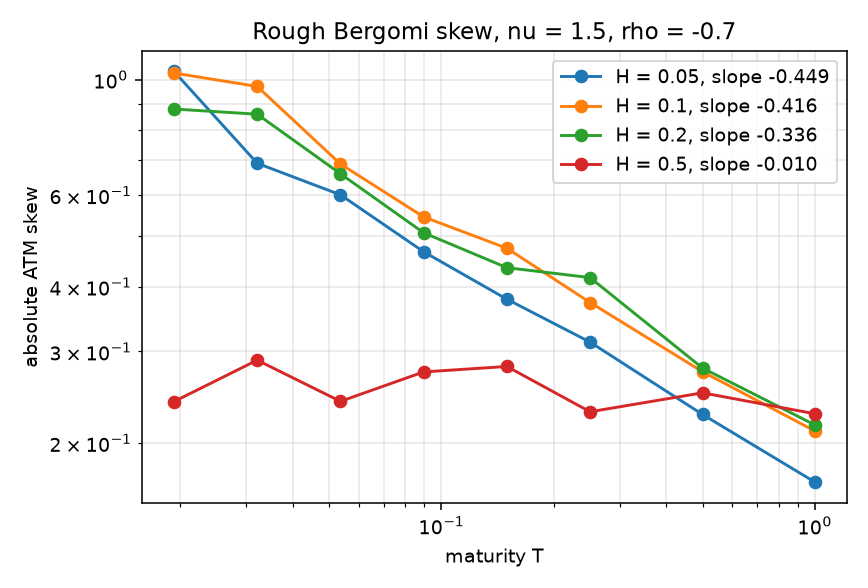
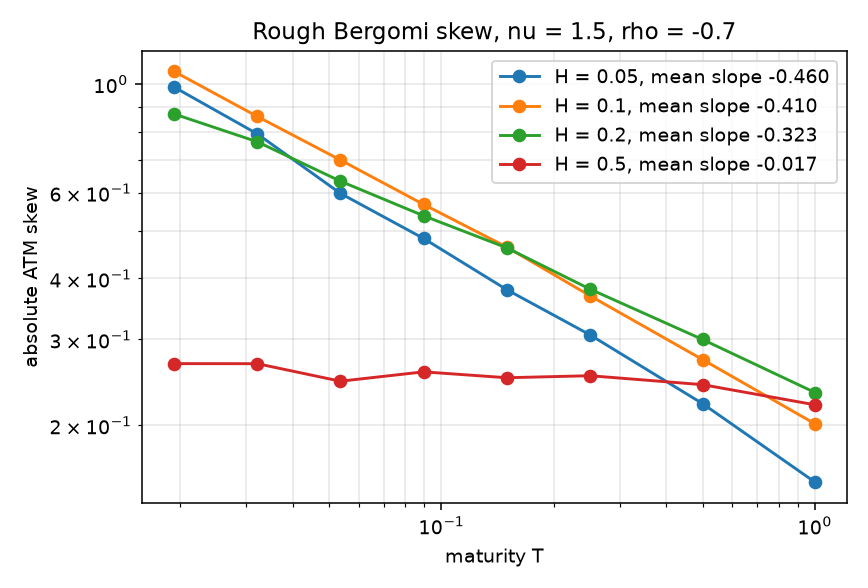
RV-b: skew exponent is the mean of 12 seeds
One seed has sd 0.018, so a band of 0.05 is not a check on a single draw.
The mean slope at H=0.1 is -0.409580. The H=0.2 gap is 0.023, not 0.036.
The volsurface create test skips when volsurface.plugins is not installed.

diff --git a/scripts/figures_rvb.py b/scripts/figures_rvb.py
@@ -7,8 +7,10 @@ Each point is a conditional Monte Carlo price, 8,000 paths, 128 steps,
 nine log-moneynesses on [-h, h] with h = max(0.15 sqrt(T), 0.01), and the
 slope of a quadratic in log-moneyness at the money.
 
-The H = 0.1 points on [1/52, 1/4] use the same seeds as
-``tests/test_rbergomi.py::test_skew_exponent`` (seed 20261014 + 5000 + index).
+Twelve seeds. The plotted skew is the mean of the absolute skew. The legend
+is the mean of the per-seed log-log slopes on [1/52, 1/4]. At H = 0.1 that
+mean is what ``tests/test_rbergomi.py::test_skew_exponent`` checks.
+Replication 0 on that window uses seed 20261014 + 5000 + 100 * rep + index.
 """
 
 from __future__ import annotations
@@ -32,15 +34,16 @@ RHO = -0.7
 XI0 = 0.04
 N_PATHS = 8_000
 N_STEPS = 128
+REPS = 12
 SHORT = np.geomspace(1.0 / 52.0, 0.25, 6)
 MATURITIES = np.concatenate([SHORT, np.array([0.5, 1.0])])
 OUT_DIR = Path(__file__).resolve().parents[1] / "docs" / "figures"
 
 
-def _seed(H: float, index: int) -> int:
+def _seed(H: float, rep: int, index: int) -> int:
     if abs(H - 0.1) < 1e-12 and index < SHORT.size:
-        return SEED + 5_000 + index
-    return SEED + 20_000 + int(round(1000 * H)) + index
+        return SEED + 5_000 + 100 * rep + index
+    return SEED + 20_000 + int(round(1000 * H)) + 100 * rep + index
 
 
 def main() -> None:
@@ -49,23 +52,59 @@ def main() -> None:
         model = RoughBergomi(
             H=H, nu=NU, rho=RHO, xi0=XI0, n_steps=N_STEPS, n_paths=N_PATHS, kappa=1
         )
+        slopes = []
+        by_maturity: list[list[float]] = [[] for _ in MATURITIES]
+        for rep in range(REPS):
+            skew = np.array(
+                [
+                    model.atm_skew(float(maturity), n_paths=N_PATHS, seed=_seed(H, rep, index))
+                    for index, maturity in enumerate(MATURITIES)
+                ]
+            )
+            for index, value in enumerate(skew):
+                by_maturity[index].append(float(value))
+            short = skew[: SHORT.size]
+            slopes.append(float(np.polyfit(np.log(SHORT), np.log(np.abs(short)), 1)[0]))
+        slopes_arr = np.asarray(slopes, dtype=np.float64)
+        mean_slope = float(slopes_arr.mean())
+        sd_slope = float(slopes_arr.std(ddof=1))
+        print(
+            f"H={H} mean slope on [1/52, 1/4] = {mean_slope:.6f} "
+            f"sd={sd_slope:.6f} target {H - 0.5:.6f}"
+        )
         for index, maturity in enumerate(MATURITIES):
-            skew = model.atm_skew(float(maturity), n_paths=N_PATHS, seed=_seed(H, index))
+            sample = np.asarray(by_maturity[index], dtype=np.float64)
+            mean_skew = float(sample.mean())
             rows.append(
                 {
                     "H": H,
                     "T": float(maturity),
-                    "skew": skew,
-                    "abs_skew": abs(skew),
+                    "skew": mean_skew,
+                    "abs_skew": float(np.mean(np.abs(sample))),
+                    "skew_sd": float(sample.std(ddof=1)),
                     "n_paths": N_PATHS,
                     "n_steps": N_STEPS,
+                    "n_seeds": REPS,
+                    "mean_slope": mean_slope,
+                    "slope_sd": sd_slope,
                 }
             )
-            print(f"H={H} T={maturity:.6f} skew={skew:.6f}")
+            print(f"H={H} T={maturity:.6f} mean skew={mean_skew:.6f}")
 
     OUT_DIR.mkdir(parents=True, exist_ok=True)
     csv_path = OUT_DIR / "rvb_skew.csv"
-    fields = ["H", "T", "skew", "abs_skew", "n_paths", "n_steps"]
+    fields = [
+        "H",
+        "T",
+        "skew",
+        "abs_skew",
+        "skew_sd",
+        "n_paths",
+        "n_steps",
+        "n_seeds",
+        "mean_slope",
+        "slope_sd",
+    ]
     with csv_path.open("w", newline="") as handle:
         writer = csv.DictWriter(handle, fieldnames=fields)
         writer.writeheader()
@@ -74,17 +113,13 @@ def main() -> None:
     fig, ax = plt.subplots(figsize=(6.2, 4.2))
     for H in H_VALUES:
         subset = [row for row in rows if row["H"] == H]
-        short = [row for row in subset if row["T"] <= 0.25 + 1e-12]
-        log_t = np.log([row["T"] for row in short])
-        log_s = np.log([row["abs_skew"] for row in short])
-        slope = float(np.polyfit(log_t, log_s, 1)[0])
+        slope = float(subset[0]["mean_slope"])
         ax.loglog(
             [row["T"] for row in subset],
             [row["abs_skew"] for row in subset],
             marker="o",
-            label=f"H = {H}, slope {slope:.3f}",
+            label=f"H = {H}, mean slope {slope:.3f}",
         )
-        print(f"H={H} slope on [1/52, 1/4] = {slope:.6f}, target {H - 0.5:.6f}")
     ax.set_xlabel("maturity T")
     ax.set_ylabel("absolute ATM skew")
     ax.set_title("Rough Bergomi skew, nu = 1.5, rho = -0.7")

diff --git a/tests/test_rbergomi.py b/tests/test_rbergomi.py
@@ -8,7 +8,8 @@ seed, so the grid keeps the max bound, and the mean of z is judged on R
 replications. Sample sizes are on the constants below.
 
 The skew bar was written before the first run of ``test_skew_exponent``.
-The tolerance stays 0.05. A miss redirects the maturity window.
+The tolerance stays 0.05 and applies to the mean of 12 seeds. One seed is
+noisier than that band.
 """
 
 from __future__ import annotations
@@ -51,6 +52,7 @@ SKEW_TOL = 0.05
 SKEW_PATHS = 8_000
 SKEW_STEPS = 128
 SKEW_MATURITIES = 6
+SKEW_REPS = 12
 
 
 def _shared(rows):
@@ -272,12 +274,35 @@ def test_conditional_monte_carlo_matches_plain_where_variance_is_finite():
     _shared(rows)
 
 
+def _skew_seed(rep: int, index: int) -> int:
+    """Seed for replication ``rep`` and maturity ``index`` on the skew grid.
+
+    Replication 0 is the original single draw: seed 20261014 + 5000 + index.
+    """
+    return SEED + 5_000 + 100 * rep + index
+
+
+def _skew_slopes(model: RoughBergomi, maturities: np.ndarray) -> np.ndarray:
+    slopes = []
+    for rep in range(SKEW_REPS):
+        skew = np.array(
+            [
+                _atm_skew(model, float(maturity), SKEW_PATHS, _skew_seed(rep, i))
+                for i, maturity in enumerate(maturities)
+            ]
+        )
+        slopes.append(float(np.polyfit(np.log(maturities), np.log(np.abs(skew)), 1)[0]))
+    return np.asarray(slopes, dtype=np.float64)
+
+
 def test_skew_exponent():
     """|psi| ~ T^{H - 1/2} on T in [1/52, 1/4] at H = 0.1.
 
     m = 8,000 paths, 128 steps, nu = 1.5, rho = -0.7, xi0 = 0.04.
-    Six maturities on a geometric grid. The slope of log|psi| on log T
-    must sit within 0.05 of H - 1/2.
+    Six maturities on a geometric grid, repeated on 12 seeds. One seed has
+    standard deviation 0.0181 in this sample, so a band of 0.05 is under
+    three standard deviations and is not a check on a single draw. The
+    prewritten bar of 0.05 applies to the mean.
     """
     model = RoughBergomi(
         H=SKEW_H,
@@ -289,17 +314,16 @@ def test_skew_exponent():
         kappa=1,
     )
     maturities = np.geomspace(SKEW_T_MIN, SKEW_T_MAX, SKEW_MATURITIES)
-    skew = np.array(
-        [
-            _atm_skew(model, float(maturity), SKEW_PATHS, SEED + 5_000 + i)
-            for i, maturity in enumerate(maturities)
-        ]
-    )
-    beta = float(np.polyfit(np.log(maturities), np.log(np.abs(skew)), 1)[0])
+    slopes = _skew_slopes(model, maturities)
+    mean = float(slopes.mean())
+    sd = float(slopes.std(ddof=1))
     target = SKEW_H - 0.5
-    assert abs(beta - target) < SKEW_TOL, (
-        f"skew exponent {beta:.4f} on T in [{SKEW_T_MIN:.6f}, {SKEW_T_MAX}], "
-        f"target {target:.4f}, tolerance {SKEW_TOL}, skews {skew}"
+    assert slopes.size == SKEW_REPS
+    assert sd > 0.0
+    assert abs(mean - target) < SKEW_TOL, (
+        f"mean skew exponent {mean:.4f} (sd {sd:.4f}, {SKEW_REPS} seeds) "
+        f"on T in [{SKEW_T_MIN:.6f}, {SKEW_T_MAX}], "
+        f"target {target:.4f}, tolerance {SKEW_TOL}, slopes {slopes}"
     )
 
 
@@ -356,9 +380,9 @@ def test_entry_point_loads_rough_bergomi():
 
 
 def test_volsurface_create_resolves_rbergomi():
-    pytest.importorskip("volsurface")
-    from volsurface.plugins import create
+    """Skipped when volsurface, or its plugins module, is not installed."""
+    plugins = pytest.importorskip("volsurface.plugins")
 
-    model = create("rbergomi")
+    model = plugins.create("rbergomi")
     assert isinstance(model, RoughBergomi)
     assert model.price(1.0, np.array([1.0]), 0.25).shape == (1,)

diff --git a/docs/notes/rbergomi.md b/docs/notes/rbergomi.md
@@ -1,6 +1,6 @@
 # Rough Bergomi
 
-The figure `docs/figures/rvb_skew.png` is the absolute at-the-money skew of rough Bergomi against maturity, for H in {0.05, 0.1, 0.2, 0.5}. Vol of vol is nu = 1.5, correlation rho = -0.7, and the forward variance is flat at 0.04. On T in [1/52, 1/4] the log-log slopes are -0.449, -0.416, -0.336 and -0.010. The short-dated claim is a slope of H - 1/2, which is -0.450, -0.400, -0.300 and 0.
+The figure `docs/figures/rvb_skew.png` is the absolute at-the-money skew of rough Bergomi against maturity, for H in {0.05, 0.1, 0.2, 0.5}. Vol of vol is nu = 1.5, correlation rho = -0.7, and the forward variance is flat at 0.04. Each point is the mean of 12 seeds. On T in [1/52, 1/4] the mean log-log slopes are -0.460, -0.410, -0.323 and -0.017. The short-dated claim is a slope of H - 1/2, which is -0.450, -0.400, -0.300 and 0.
 
 ## The model
 
@@ -36,6 +36,6 @@ The one-step check is not Monte Carlo. With v frozen, the multiplier exp(sqrt(v)
 
 ## The skew
 
-psi is the slope of implied volatility against log-moneyness at the money. The fit uses nine strikes on [-h, h], h = max(0.15 sqrt(T), 0.01), and a quadratic. The test, written before the run, asks that the slope of log|psi| on log T, for six geometric maturities in [1/52, 1/4] at H = 0.1, lie within 0.05 of -0.4. It came out at -0.416271, with 8,000 paths and 128 steps. The same points are the H = 0.1 markers on the figure.
+psi is the slope of implied volatility against log-moneyness at the money. The fit uses nine strikes on [-h, h], h = max(0.15 sqrt(T), 0.01), and a quadratic. The test, written before the run, asks that the slope of log|psi| on log T, for six geometric maturities in [1/52, 1/4] at H = 0.1, lie within 0.05 of -0.4. One seed is too noisy for that band: across 12 seeds the standard deviation is 0.0181, and the mean slope is -0.4096, with 8,000 paths and 128 steps. The bar of 0.05 applies to that mean. The same 12 seeds are the H = 0.1 markers on the figure. Replication 0 alone, the original draw, has slope -0.4163.
 
-H = 0.2 on that same window fits -0.336426, which is 0.036 steeper than -0.300. The power is asymptotic. A tighter check would end the window before 1/4. H = 0.5 is nearly flat in T, slope -0.010, which is the diffusive end of the same plot.
+H = 0.2 on that same window has mean slope -0.3232, which is 0.023 steeper than -0.300. The standard error of the mean is 0.005. A single seed fitted -0.3364, a gap of 0.036, which is one draw and not the gap. The power is asymptotic. A tighter check would end the window before 1/4. H = 0.5 has mean slope -0.017, which is the diffusive end of the same plot. The standard deviation there is 0.065, because the skew is small and the log-log slope is noisy.

diff --git a/LOG.md b/LOG.md
@@ -35,29 +35,34 @@ its standard error is 0.
 The skew bar was written before the run: on T in [1/52, 1/4] at H = 0.1, the slope
 of log|psi| on log T is within 0.05 of H - 1/2 = -0.4. nu = 1.5, rho = -0.7,
 xi0 = 0.04, m = 8,000, 128 steps, six geometric maturities, nine strikes on
-[-h, h] with h = max(0.15 sqrt(T), 0.01). The fitted slope is -0.416271. The
-absolute ATM skews are 1.03084, 0.97124, 0.68871, 0.54469, 0.47401, 0.37266 at
-T = 0.019231, 0.032121, 0.053651, 0.089611, 0.149676, 0.250000.
+[-h, h] with h = max(0.15 sqrt(T), 0.01). One seed is too noisy for that band.
+Across 12 seeds (replication r uses seed 20261014 + 5000 + 100 r + maturity index)
+the mean slope is -0.409580 and the standard deviation is 0.018112. The standard
+error of the mean is 0.005228. The mean sits 0.0096 from -0.4, inside the bar.
+Replication 0 is the original single draw, slope -0.416271.
 
-The figure (`docs/figures/rvb_skew.png`) uses the same estimator. Slopes on
-[1/52, 1/4]:
+The figure (`docs/figures/rvb_skew.png`) plots the mean absolute skew over those
+12 seeds. Mean slopes on [1/52, 1/4]:
 
-| H | slope | H - 1/2 |
-|---|---|---|
-| 0.05 | -0.449004 | -0.450 |
-| 0.1 | -0.416271 | -0.400 |
-| 0.2 | -0.336426 | -0.300 |
-| 0.5 | -0.010032 | 0 |
+| H | mean slope | sd | H - 1/2 |
+|---|---|---|---|
+| 0.05 | -0.460398 | 0.015694 | -0.450 |
+| 0.1 | -0.409580 | 0.018112 | -0.400 |
+| 0.2 | -0.323174 | 0.018477 | -0.300 |
+| 0.5 | -0.017350 | 0.065129 | 0 |
 
 At H = 1/2 the hybrid conditional price and a full-truncation Euler (v <- v + nu max(v, 0) dW),
 same normals, m = 2,000, 256 steps, T = 1, strikes 0.9, 1, 1.1, R = 4: max |z| = 3.229
 against a cap of 3.588, replication mean 1.063 against a bound of 2.549. Mean price
 gaps on one replication are about 1e-4.
 
-**Surprised.** On the same window, H = 0.2 fits -0.336 against a target of -0.300, a
-gap of 0.036, steeper than H - 1/2. H = 0.05 and H = 0.1 land closer. The power is
+**Surprised.** On the same window the mean slope at H = 0.2 is -0.323174, which is
+0.023 steeper than -0.300. The standard error of that mean is 0.005. A single seed
+fitted -0.336426, a gap of 0.036, which is one draw from a standard deviation of
+0.018 and not the gap. H = 0.05 and H = 0.1 land closer to H - 1/2. The power is
 an asymptotic claim. The next specification, if that gap is the question, is a window
-that ends before 1/4. The prewritten bar was only for H = 0.1, and it was not moved.
+that ends before 1/4. The prewritten bar was only for H = 0.1, and it now applies
+to the mean of the 12 seeds.
 
 **Open.** The Hurst routes, including the SPX skew, are RV-c.
 
